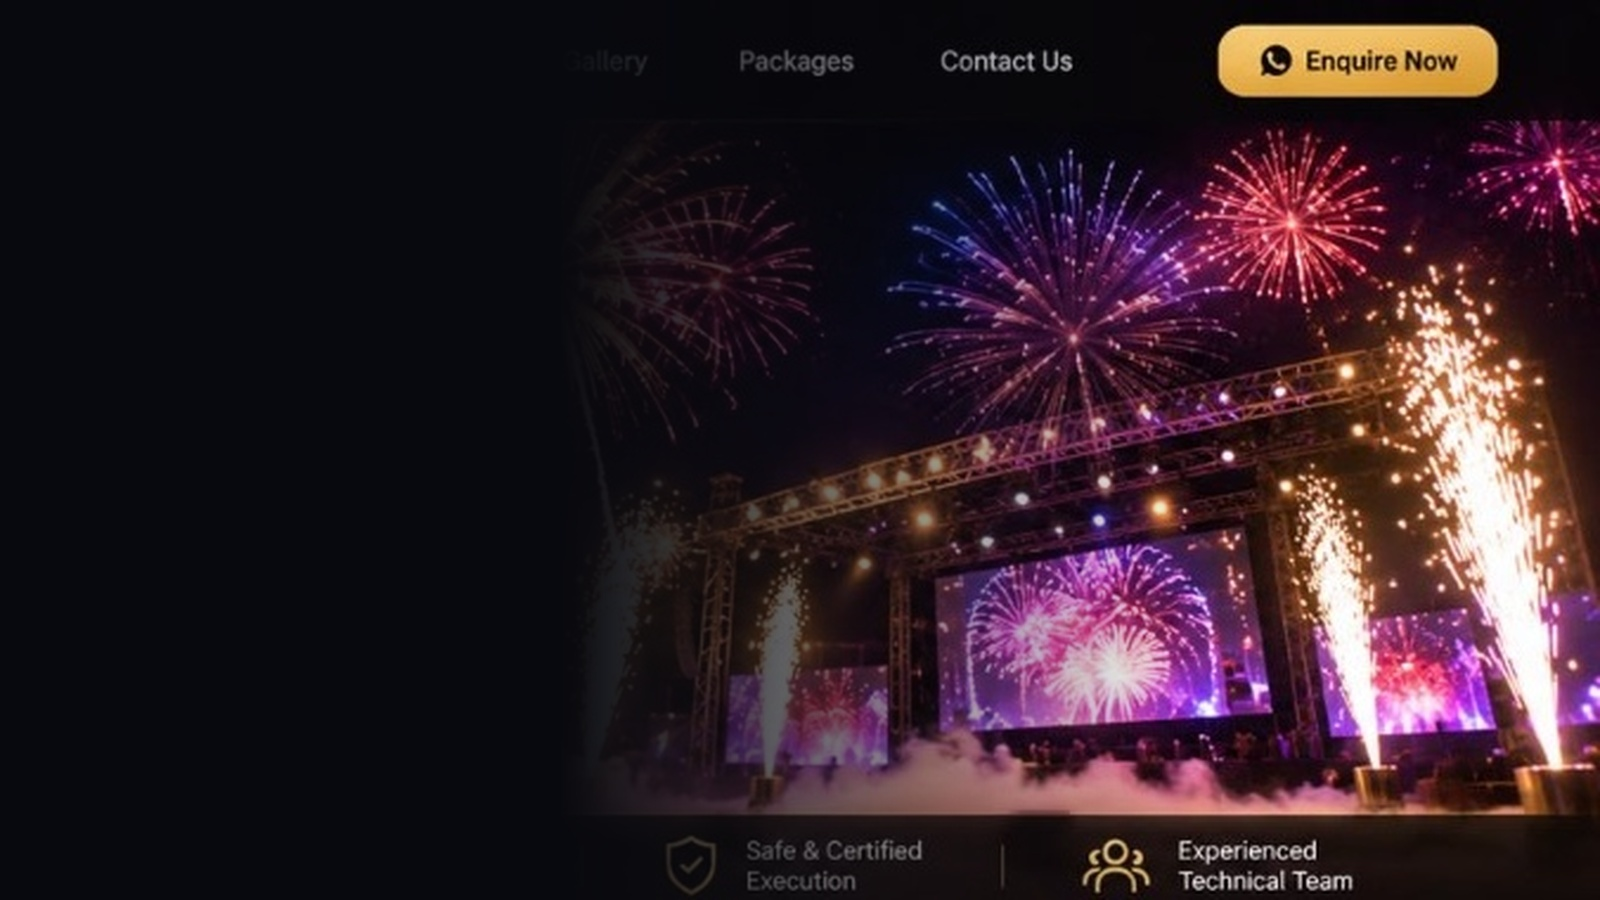
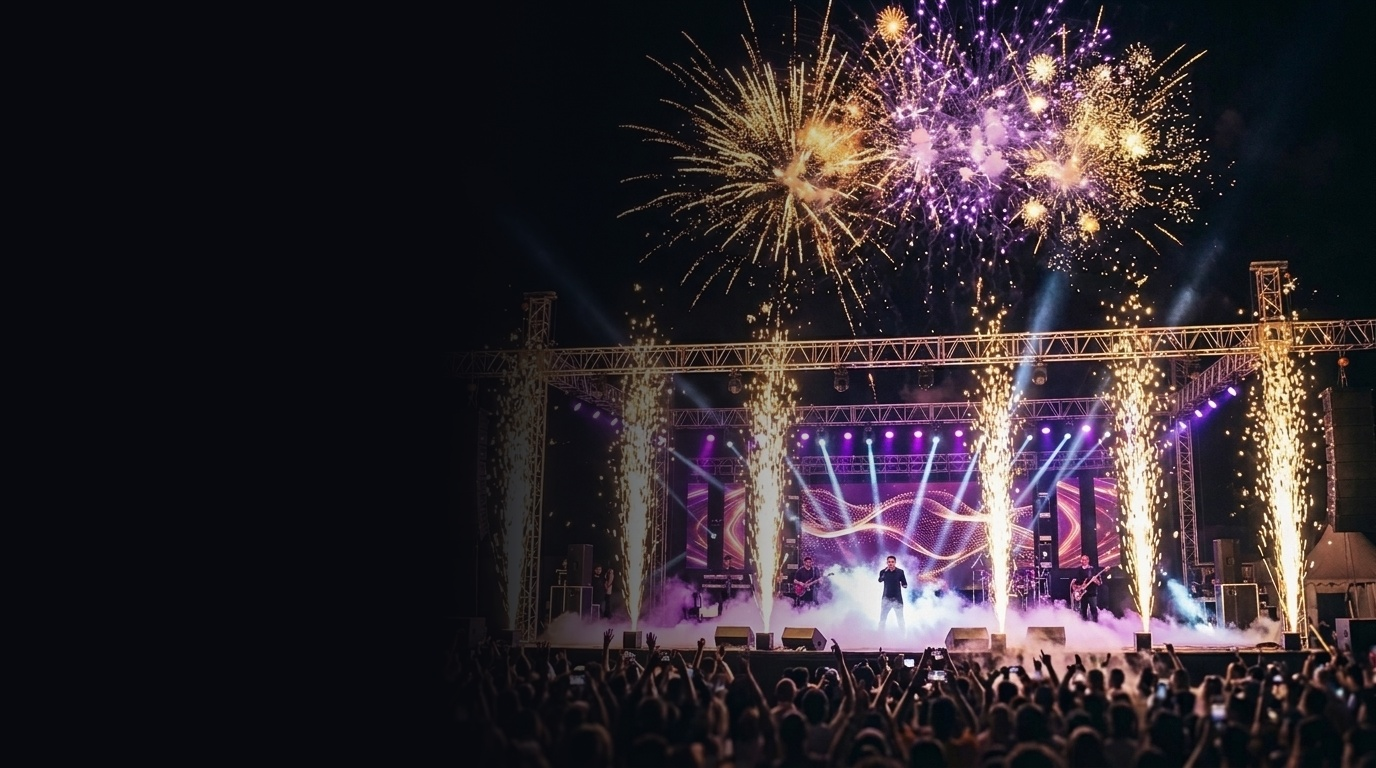
Replace low-res background and service images with crystal-clear 4K HD photography

diff --git a/js/data.js b/js/data.js
@@ -28,7 +28,7 @@ const SakshamData = {
       title: "Fireworks Displays",
       badge: "Grand Show",
       icon: "fa-rocket",
-      image: "assets/images/service_fireworks.jpg",
+      image: "assets/images/service_fireworks_hd.jpg",
       summary: "Breathtaking sky fireworks displays, customized shell bursts, and musical synchronized fireworks shows for grand celebrations and VIP events.",
       features: [
         "Synchronized Sky Fireworks & Aerial Shells",
@@ -44,7 +44,7 @@ const SakshamData = {
       title: "Sparkulars & Pyro Effects",
       badge: "Indoor & Safe",
       icon: "fa-wand-magic-sparkles",
-      image: "assets/images/service_sparkulars.jpg",
+      image: "assets/images/service_sparkulars_hd.jpg",
       summary: "Smokeless cold pyro sparkular fountains, waterfall spark curtains, and synchronized aisle sparks for royal bridal & groom entries.",
       features: [
         "100% Smokeless & Indoor Safe Cold Spark Guns",
@@ -60,7 +60,7 @@ const SakshamData = {
       title: "Flame Jet Effects",
       badge: "Concert Grade",
       icon: "fa-fire",
-      image: "assets/images/service_flames.jpg",
+      image: "assets/images/service_flames_hd.jpg",
       summary: "Multi-angle stage flame projectors, colored fire jets, and high-impact pyro bursts programmed for energetic stage performances and DJ drops.",
       features: [
         "Multi-Angle Moving Flame Projectors",
@@ -76,7 +76,7 @@ const SakshamData = {
       title: "Dry Ice / Low Fog",
       badge: "Fairytale Walk",
       icon: "fa-smog",
-      image: "assets/images/service_fog.jpg",
+      image: "assets/images/service_fog_hd.jpg",
       summary: "Dense, floor-hugging dry-ice low fog creating a fairytale cloud walk effect for Varmala, first dance, and couple entries.",
       features: [
         "Genuine Heavy Dry-Ice Low Smoke (Never Rises)",
@@ -92,7 +92,7 @@ const SakshamData = {
       title: "Confetti & Paper Effects",
       badge: "Celebration Blast",
       icon: "fa-burst",
-      image: "assets/images/service_confetti.jpg",
+      image: "assets/images/service_confetti_hd.jpg",
       summary: "High-powered confetti blowers, stadium streamer air-cannons, and metallic gold foil petal showers for grand celebration climaxes.",
       features: [
         "Continuous High-Powered Air Confetti Blowers",
@@ -108,7 +108,7 @@ const SakshamData = {
       title: "Complete Event Effects",
       badge: "All-in-One",
       icon: "fa-bolt-lightning",
-      image: "assets/images/service_complete.jpg",
+      image: "assets/images/service_complete_hd.jpg",
       summary: "Turnkey production combining laser light shows, moving head beams, CO2 jets, sparkulars, and audio-visual synchronization.",
       features: [
         "Integrated Stage Pyrotechnics & Laser Systems",

diff --git a/css/style.css b/css/style.css
@@ -364,9 +364,22 @@ h1, h2, h3, h4, h5, h6 {
   left: 0;
   width: 100%;
   height: 100%;
-  background: url('../assets/images/hero_bg_composite.jpg') no-repeat right center / cover;
+  background: linear-gradient(to right, rgba(8, 9, 14, 0.96) 0%, rgba(8, 9, 14, 0.8) 32%, rgba(8, 9, 14, 0.2) 65%, transparent 100%), url('../assets/images/hero_bg_composite.jpg') no-repeat right center / cover;
   z-index: 0;
   pointer-events: none;
+}
+
+.hero-spark-glow {
+  position: absolute;
+  top: 25%;
+  right: 15%;
+  width: 500px;
+  height: 500px;
+  background: radial-gradient(circle, rgba(229, 193, 88, 0.22) 0%, rgba(255, 157, 0, 0.12) 40%, transparent 70%);
+  filter: blur(65px);
+  z-index: 1;
+  pointer-events: none;
+  animation: pulseGlow 6s infinite alternate ease-in-out;
 }
 
 .hero-container {

diff --git a/index.html b/index.html
@@ -81,6 +81,7 @@
   <!-- Hero Section -->
   <section id="hero" class="hero-section">
     <div class="hero-bg"></div>
+    <div class="hero-spark-glow"></div>
     <div class="container hero-container">
       <div class="hero-content">
         <div class="hero-kicker">
